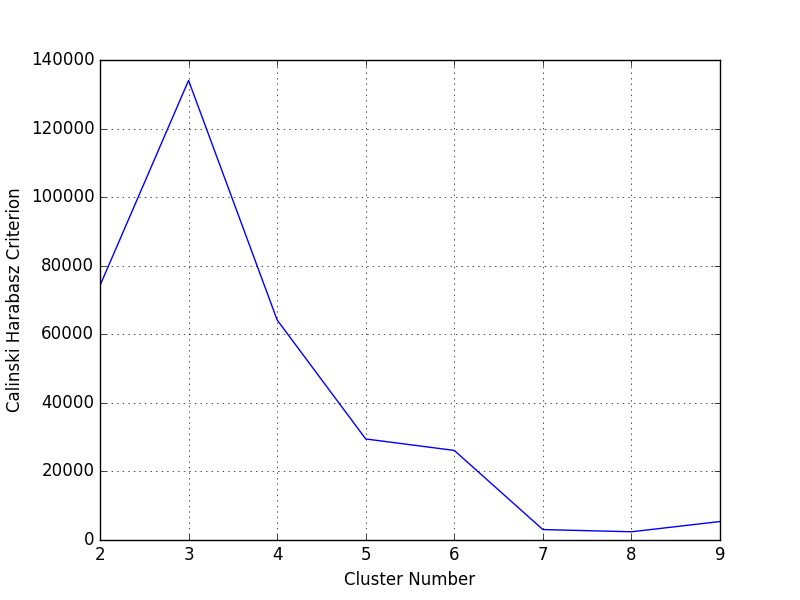
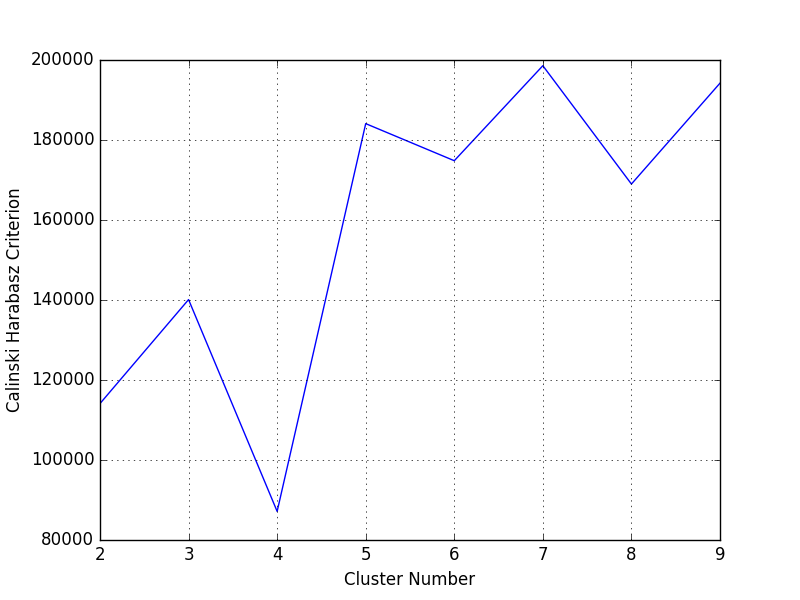
Fixed bug in DB criterion with mean

diff --git a/task2/task2.py b/task2/task2.py
@@ -39,7 +39,7 @@ class InternalCriterion:
         mean = np.mean(self.X)
         Sb = 0
         for i in xrange(self.centroids.shape[0]):
-            Sb += self.elements[i] * np.sum((self.centroids[self.clusters[i]] - self.X[i]) ** 2)
+            Sb += self.elements[i] * np.sum((self.centroids[self.clusters[i]] - mean) ** 2)
 
         Sw = 0
         for i in xrange(self.X.shape[0]):
@@ -108,7 +108,7 @@ def image_criterions(filename, cluster_limit=10):
     plt.grid(True)
     plt.savefig("db_criterion.png")
 
-    return np.argmin(chs) + 2, np.argmin(dbs) + 2
+    return np.argmax(chs) + 2, np.argmin(dbs) + 2
 
 def geom_criterions(filename, cluster_limit=10):
     file = open(filename, 'r')
@@ -169,6 +169,6 @@ if __name__ == '__main__':
         print('Error: Please, type filename and limit of clusters as command line arguments.')
         sys.exit(0)
 
-    image_criterions(sys.argv[1], int(sys.argv[2]))
+    print(image_criterions(sys.argv[1], int(sys.argv[2])))
 
     
